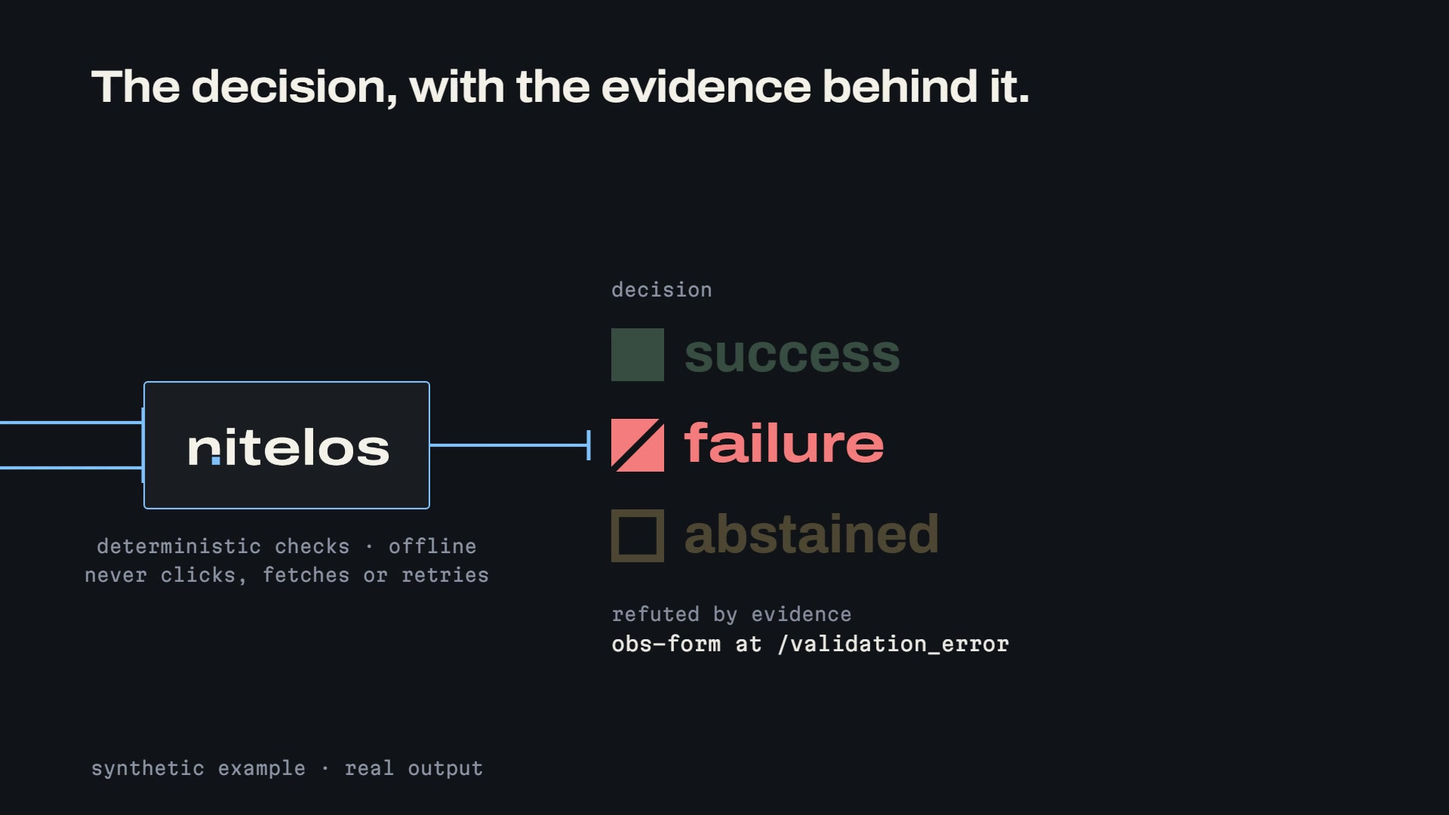
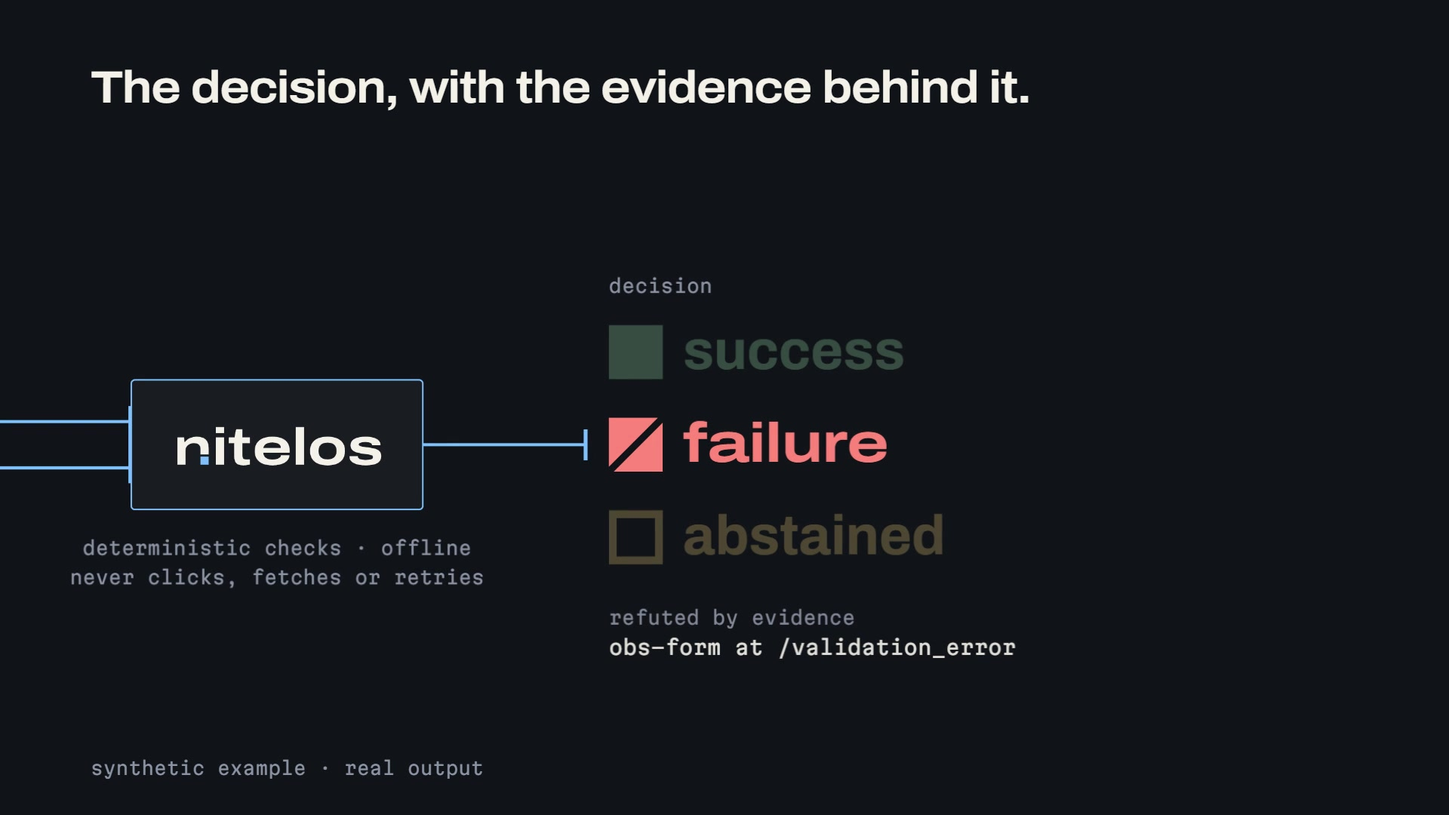
Explainer cut to 28 s; README hero links to the hosted film
- explainer.html tightened from 44 s to 28.5 s: camera moves with speed
  blur, word-by-word headlines, models burst out of the agent, every step
  on the music's beat grid.
- The film is hosted at huggingface.co/datasets/Gjusev/nitelos-launch;
  the README hero is a silent preview GIF of it that links to the full
  film with sound (GitHub strips <video> tags with repository or external
  sources).
- The earlier workflow GIF is removed; records updated.

diff --git a/videos/nitelos-launch/explainer.html b/videos/nitelos-launch/explainer.html
@@ -3,7 +3,7 @@
   <head>
     <meta charset="UTF-8" />
     <meta name="viewport" content="width=1920, height=1080" />
-    <title>nitelos: explainer (44 s)</title>
+    <title>nitelos: explainer (28 s)</title>
     <script src="/assets/vendor/gsap.min.js"></script>
     <style>
       @font-face { font-family: "Archivo"; src: url("/assets/fonts/Archivo-VF.ttf") format("truetype"); font-weight: 100 900; font-stretch: 62% 125%; }
@@ -29,14 +29,15 @@
       .row { position: absolute; left: 4130px; height: 80px; width: 560px; }
       .row svg { position: absolute; left: 0; top: 5px; }
       .row .w { position: absolute; left: 96px; top: 2px; font-family: Archivo; --wdth: 100; font-variation-settings: "wdth" var(--wdth), "wght" 700; font-size: 72px; line-height: 1; white-space: nowrap; }
-      /* HUD: screen-space text above the world */
-      .hl { position: absolute; left: 120px; top: 84px; width: 1680px; font-family: Archivo; font-variation-settings: "wdth" 112, "wght" 650; font-size: 60px; line-height: 1.05; letter-spacing: -0.02em; white-space: nowrap; }
-      .tok { position: absolute; left: 120px; top: 500px; font-family: Archivo; font-variation-settings: "wdth" 112, "wght" 700; font-size: 110px; line-height: 1; letter-spacing: -0.02em; white-space: nowrap; }
+      /* HUD: screen-space text above the world; words rise through a mask */
+      .hl { position: absolute; left: 120px; top: 78px; width: 1680px; height: 80px; overflow: hidden; font-family: Archivo; font-variation-settings: "wdth" 112, "wght" 650; font-size: 60px; line-height: 76px; letter-spacing: -0.02em; white-space: nowrap; }
+      .hl .wd, .tok .wd { display: inline-block; }
+      .tok { position: absolute; left: 120px; top: 488px; width: 1700px; height: 136px; overflow: hidden; font-family: Archivo; font-variation-settings: "wdth" 112, "wght" 700; font-size: 110px; line-height: 132px; letter-spacing: -0.02em; white-space: nowrap; }
     </style>
   </head>
   <body>
-    <div id="root" data-composition-id="explainer" data-start="0" data-width="1920" data-height="1080" data-duration="44">
-      <section id="story" class="clip" data-start="0" data-duration="39.6" data-track-index="1">
+    <div id="root" data-composition-id="explainer" data-start="0" data-width="1920" data-height="1080" data-duration="28.5">
+      <section id="story" class="clip" data-start="0" data-duration="24.3" data-track-index="1">
         <!-- intentional: the world is larger than the frame; the camera decides what is on screen -->
         <div id="world-fade" data-layout-allow-overflow>
           <div id="world" data-layout-allow-overflow>
@@ -102,25 +103,25 @@
           </div>
         </div>
 
-        <!-- HUD -->
-        <div id="h1" class="hl" data-layout-allow-overlap>Your agent says it's done.</div>
-        <div id="h2" class="hl" data-layout-allow-overlap>It can run on any model.</div>
-        <div id="h3" class="hl" data-layout-allow-overlap>nitelos never calls the model.</div>
-        <div id="h4" class="hl" data-layout-allow-overlap>It reads the evidence the run left behind.</div>
-        <div id="h5" class="hl" data-layout-allow-overlap>You write down what done means.</div>
-        <div id="h6" class="hl" data-layout-allow-overlap>nitelos checks one against the other.</div>
-        <div id="h7" class="hl" data-layout-allow-overlap>The decision, with the evidence behind it.</div>
-        <div id="h8" class="hl" data-layout-allow-overlap>The summary was never the proof.</div>
+        <!-- HUD (words are wrapped in .wd spans at setup) -->
+        <div id="h1" class="hl" data-layout-allow-overlap data-layout-allow-overflow>Your agent says it's done.</div>
+        <div id="h2" class="hl" data-layout-allow-overlap data-layout-allow-overflow>It can run on any model.</div>
+        <div id="h3" class="hl" data-layout-allow-overlap data-layout-allow-overflow>nitelos never calls the model.</div>
+        <div id="h4" class="hl" data-layout-allow-overlap data-layout-allow-overflow>It reads the evidence the run left behind.</div>
+        <div id="h5" class="hl" data-layout-allow-overlap data-layout-allow-overflow>You write down what done means.</div>
+        <div id="h6" class="hl" data-layout-allow-overlap data-layout-allow-overflow>nitelos checks one against the other.</div>
+        <div id="h7" class="hl" data-layout-allow-overlap data-layout-allow-overflow>The decision, with the evidence behind it.</div>
+        <div id="h8" class="hl" data-layout-allow-overlap data-layout-allow-overflow>The summary was never the proof.</div>
         <div id="built" class="abs" style="left: 120px; top: 410px; font-family: Archivo; font-variation-settings: 'wdth' 112, 'wght' 500; font-size: 56px; line-height: 1; color: var(--muted)">Built for</div>
-        <div id="k1" class="tok" data-layout-allow-overlap>agent developers</div>
-        <div id="k2" class="tok" data-layout-allow-overlap>evaluation engineers</div>
-        <div id="k3" class="tok" data-layout-allow-overlap>computer-use research</div>
-        <div id="k4" class="tok" data-layout-allow-overlap>reliability teams</div>
+        <div id="k1" class="tok" data-layout-allow-overlap data-layout-allow-overflow>agent developers</div>
+        <div id="k2" class="tok" data-layout-allow-overlap data-layout-allow-overflow>evaluation engineers</div>
+        <div id="k3" class="tok" data-layout-allow-overlap data-layout-allow-overflow>computer-use research</div>
+        <div id="k4" class="tok" data-layout-allow-overlap data-layout-allow-overflow>reliability teams</div>
         <div id="footnote" class="label abs" style="left: 120px; top: 968px; font-size: 20px">model names are examples · nitelos ships no integration with them</div>
         <div id="honesty" class="label abs" style="left: 120px; top: 1006px">synthetic example · real output</div>
       </section>
 
-      <section id="close" class="clip" data-start="39.2" data-duration="4.8" data-track-index="2">
+      <section id="close" class="clip" data-start="24" data-duration="4.5" data-track-index="2">
         <div id="cover" class="abs" style="left: 0; top: 0; width: 1920px; height: 1080px; background: var(--ground)"></div>
         <img id="wordmark" src="/assets/svg/nitelos-wordmark-dark-open.svg" alt="nitelos" class="abs" style="left: 410px; top: 330px; width: 1100px" />
         <svg class="abs" width="1920" height="1080" viewBox="0 0 1920 1080" style="left: 0; top: 0"><path id="drop-line" d="M583.35 150 V497.8" fill="none" stroke="#79bfff" stroke-width="4" /></svg>
@@ -129,25 +130,32 @@
         <div id="install" class="mono abs" style="left: 0; width: 1920px; top: 720px; text-align: center; font-size: 34px">pip install nitelos</div>
       </section>
 
-      <audio id="music" src="/assets/audio/happy-beats-business-moves-vol-12-by-ende-dot-app.mp3" data-start="0" data-duration="44" data-track-index="10" data-volume="0.85"
-        data-automation='{"version":1,"lanes":[{"target":"volume","points":[{"t":0,"v":0},{"t":0.3,"v":0.85},{"t":42.8,"v":0.85},{"t":44,"v":0}]}]}'></audio>
-      <audio id="sfx-claim" src="/assets/audio/sfx/impactSoft_medium_002.ogg" data-start="0.56" data-track-index="11" data-volume="0.5"></audio>
-      <audio id="sfx-chips" src="/assets/audio/sfx/click_003.ogg" data-start="5.47" data-track-index="12" data-volume="0.35"></audio>
-      <audio id="sfx-pan" src="/assets/audio/sfx/card-slide-1.ogg" data-start="10.92" data-track-index="13" data-volume="0.35"></audio>
-      <audio id="sfx-crit" src="/assets/audio/sfx/click2.ogg" data-start="16.93" data-track-index="14" data-volume="0.45"></audio>
-      <audio id="sfx-node" src="/assets/audio/sfx/click_003.ogg" data-start="23.1" data-track-index="15" data-volume="0.45"></audio>
-      <audio id="sfx-stop" src="/assets/audio/sfx/click2.ogg" data-start="24.02" data-track-index="16" data-volume="0.4"></audio>
-      <audio id="sfx-verdict" src="/assets/audio/sfx/impactSoft_heavy_003.ogg" data-start="28.93" data-track-index="17" data-volume="0.55"></audio>
-      <audio id="sfx-strike" src="/assets/audio/sfx/impactSoft_medium_004.ogg" data-start="32.2" data-track-index="18" data-volume="0.4"></audio>
-      <audio id="sfx-dock" src="/assets/audio/sfx/impactBell_heavy_000.ogg" data-start="40.39" data-track-index="19" data-volume="0.55"></audio>
+      <audio id="music" src="/assets/audio/happy-beats-business-moves-vol-12-by-ende-dot-app.mp3" data-start="0" data-duration="28.5" data-track-index="10" data-volume="0.85"
+        data-automation='{"version":1,"lanes":[{"target":"volume","points":[{"t":0,"v":0},{"t":0.2,"v":0.85},{"t":27.4,"v":0.85},{"t":28.5,"v":0}]}]}'></audio>
+      <audio id="sfx-claim" src="/assets/audio/sfx/impactSoft_medium_002.ogg" data-start="0.28" data-track-index="11" data-volume="0.5"></audio>
+      <audio id="sfx-chips" src="/assets/audio/sfx/click_003.ogg" data-start="3.28" data-track-index="12" data-volume="0.4"></audio>
+      <audio id="sfx-pan" src="/assets/audio/sfx/card-slide-1.ogg" data-start="6.56" data-track-index="13" data-volume="0.35"></audio>
+      <audio id="sfx-crit" src="/assets/audio/sfx/click2.ogg" data-start="10.38" data-track-index="14" data-volume="0.45"></audio>
+      <audio id="sfx-node" src="/assets/audio/sfx/click_003.ogg" data-start="13.11" data-track-index="15" data-volume="0.45"></audio>
+      <audio id="sfx-stop" src="/assets/audio/sfx/click2.ogg" data-start="13.93" data-track-index="16" data-volume="0.4"></audio>
+      <audio id="sfx-verdict" src="/assets/audio/sfx/impactSoft_heavy_003.ogg" data-start="16.93" data-track-index="17" data-volume="0.55"></audio>
+      <audio id="sfx-strike" src="/assets/audio/sfx/impactSoft_medium_004.ogg" data-start="19.11" data-track-index="18" data-volume="0.4"></audio>
+      <audio id="sfx-dock" src="/assets/audio/sfx/impactBell_heavy_000.ogg" data-start="25.11" data-track-index="19" data-volume="0.55"></audio>
     </div>
     <script>
       const tl = gsap.timeline({ paused: true });
       const ARRIVE = "expo.out";
-      const MOVE = "power3.inOut";
+      const MOVE = "expo.inOut"; // fast camera: quick through the middle, settled at both ends
       // beat grid of vol-12 (109.96 BPM): 0.01 + k * 0.5457 s
 
-      // ---- build the model ring (deterministic layout, world coordinates) ----
+      // ---- split HUD lines into words (deterministic, at setup) ----
+      const words = (id) => {
+        const el = document.getElementById(id);
+        el.innerHTML = el.textContent.split(" ").map((w) => '<span class="wd">' + w + "</span>").join(" ");
+        return Array.from(el.querySelectorAll(".wd"));
+      };
+
+      // ---- build the model ring (world coordinates) ----
       const MODELS = ["Claude", "GPT", "Gemini", "Llama", "Mistral", "Qwen", "DeepSeek", "your own model"];
       const HUB = { x: 1000, y: 1100 };
       const wires = document.getElementById("wires");
@@ -165,9 +173,9 @@
         c.style.top = cy - 32 + "px";
         c.textContent = name;
         chipsEl.appendChild(c);
-        chips.push(c);
+        chips.push({ el: c, dx: HUB.x - cx, dy: HUB.y - cy });
         const p = document.createElementNS("http://www.w3.org/2000/svg", "path");
-        p.setAttribute("d", "M" + cx + " " + cy + " L" + HUB.x + " " + HUB.y);
+        p.setAttribute("d", "M" + HUB.x + " " + HUB.y + " L" + cx + " " + cy); // drawn hub -> model
         p.setAttribute("stroke", "#59616f");
         p.setAttribute("stroke-width", "3");
         p.setAttribute("fill", "none");
@@ -179,33 +187,44 @@
       const world = document.getElementById("world");
       const at = (wx, wy, s) => ({ x: 960 - s * wx, y: 620 - s * wy, s: s });
       const K = {
-        claim: at(1000, 630, 1.6), claimPush: at(1000, 630, 1.68),
-        ring: at(1000, 1010, 0.8), ringDrift: at(1000, 1010, 0.83), // lowest chip stays above the footnote
-        evidence: at(2690, 1116, 1), criteria: at(2900, 1398, 0.8), // evidence stays under the headline
-        node: at(3200, 1320, 0.8), decision: at(4280, 1430, 1),
-        map: at(2500, 1170, 0.41), mapDrift: at(2500, 1170, 0.43),
+        claim: at(1000, 630, 1.6), claimPush: at(1000, 630, 1.72),
+        ring: at(1000, 1010, 0.8), ringPush: at(1000, 1010, 0.83), // lowest chip stays above the footnote
+        evidence: at(2690, 1116, 1), evidencePush: at(2690, 1116, 1.03),
+        criteria: at(2900, 1398, 0.8), criteriaPush: at(2900, 1398, 0.82),
+        node: at(3200, 1320, 0.8), nodePush: at(3200, 1320, 0.82),
+        decision: at(4280, 1430, 1), decisionPush: at(4280, 1430, 1.03),
+        map: at(2500, 1170, 0.41), mapDrift: at(2500, 1170, 0.44),
       };
       const cam = { ...K.claim };
       const apply = () => { world.style.transform = "translate(" + cam.x + "px," + cam.y + "px) scale(" + cam.s + ")"; };
       apply();
       const leg = (t, d, a, b, ease) => tl.fromTo(cam, { ...a }, { ...b, duration: d, ease: ease, immediateRender: false, onUpdate: apply }, t);
+      // speed blur rides each fast move (in, then out), on the wrapper, never on the camera node
+      gsap.set("#world-fade", { filter: "blur(0px)" });
+      const move = (t, d, a, b) => {
+        leg(t, d, a, b, MOVE);
+        tl.to("#world-fade", { filter: "blur(3px)", duration: d / 2, ease: "sine.in" }, t);
+        tl.to("#world-fade", { filter: "blur(0px)", duration: d / 2, ease: "sine.out" }, t + d / 2);
+      };
       leg(0, 0.01, K.claim, K.claim, "none");
-      leg(0.6, 3.7, K.claim, K.claimPush, "none"); // slow push on the hook
-      leg(4.38, 1.4, K.claimPush, K.ring, MOVE); // pull back: the agent and its models
-      leg(5.8, 5.1, K.ring, K.ringDrift, "none");
-      leg(10.92, 1.4, K.ringDrift, K.evidence, MOVE); // follow the trace to the evidence
-      leg(16.38, 1.0, K.evidence, K.criteria, "power2.inOut");
-      leg(21.84, 1.25, K.criteria, K.node, MOVE);
-      leg(27.84, 1.1, K.node, K.decision, MOVE);
-      leg(30.6, 1.7, K.decision, K.map, "power2.inOut"); // the whole loop
-      leg(34.94, 4.3, K.map, K.mapDrift, "sine.inOut");
+      leg(0.3, 2.44, K.claim, K.claimPush, "none"); // push on the hook
+      move(2.74, 0.75, K.claimPush, K.ring);
+      leg(3.49, 3.07, K.ring, K.ringPush, "none");
+      move(6.56, 0.9, K.ringPush, K.evidence); // the camera rides the trace
+      leg(7.46, 2.37, K.evidence, K.evidencePush, "none");
+      move(9.83, 0.6, K.evidencePush, K.criteria);
+      leg(10.43, 2.13, K.criteria, K.criteriaPush, "none");
+      move(12.56, 0.6, K.criteriaPush, K.node);
+      leg(13.16, 2.68, K.node, K.nodePush, "none");
+      move(15.84, 0.6, K.nodePush, K.decision);
+      leg(16.44, 1.56, K.decision, K.decisionPush, "none");
+      leg(18.0, 1.1, K.decisionPush, K.map, MOVE); // pull out to the whole loop
+      leg(19.1, 5.0, K.map, K.mapDrift, "none");
 
       // ---- initial states (outside the timeline) ----
       const hidden = ["#claim", "#hub", "#ev1", "#ev2", "#ev3", "#ev4", "#crit", "#node", "#node-notes", "#dec-label", "#r-ok", "#r-fail", "#r-abs", "#why", "#footnote", "#built"];
       gsap.set(hidden, { opacity: 0 });
-      gsap.set(chips, { opacity: 0, scale: 0.85, transformOrigin: "50% 50%" });
-      gsap.set(["#h1", "#h2", "#h3", "#h4", "#h5", "#h6", "#h7", "#h8"], { opacity: 0, y: 26 });
-      gsap.set(["#k1", "#k2", "#k3", "#k4"], { opacity: 0, y: 50 });
+      chips.forEach((c) => gsap.set(c.el, { opacity: 0, x: c.dx, y: c.dy, scale: 0.4, transformOrigin: "50% 50%" }));
       gsap.set("#strike", { scaleX: 0 });
       gsap.set(["#stop-n", "#stop-d"], { opacity: 0 });
       gsap.set("#w-fail", { "--wdth": 62 });
@@ -213,70 +232,73 @@
       spokes.forEach(draw);
       ["#t-ev", "#t-up", "#t-down", "#t-b1", "#t-b2", "#t-b3", "#t-b4", "#t-n1", "#t-n2", "#t-d", "#drop-line"].forEach((s) => draw(document.querySelector(s)));
 
-      // ---- HUD headlines: the old one leaves (faster) before the new one arrives ----
-      const HL = [["#h1", 0.2], ["#h2", 4.6], ["#h3", 7.8], ["#h4", 11.1], ["#h5", 16.6], ["#h6", 22.0], ["#h7", 28.1], ["#h8", 32.3]];
-      HL.forEach(([h, t], i) => {
-        tl.to(h, { opacity: 1, y: 0, duration: 0.55, ease: ARRIVE }, t);
-        const end = i < HL.length - 1 ? HL[i + 1][1] - 0.22 : 34.94;
-        tl.to(h, { opacity: 0, y: -18, duration: 0.2, ease: "power2.in" }, end);
+      // ---- HUD headlines: words rise through the mask, leave upward faster ----
+      const HL = [["h1", 0.1], ["h2", 2.8], ["h3", 4.92], ["h4", 6.62], ["h5", 9.9], ["h6", 12.62], ["h7", 15.9], ["h8", 18.1]];
+      HL.forEach(([id, t], i) => {
+        const w = words(id);
+        gsap.set(w, { yPercent: 110 });
+        tl.to(w, { yPercent: 0, duration: 0.5, ease: ARRIVE, stagger: 0.035 }, t);
+        const end = i < HL.length - 1 ? HL[i + 1][1] - 0.2 : 21.25;
+        tl.to(w, { yPercent: -110, duration: 0.18, ease: "power2.in", stagger: 0.012 }, end);
       });
 
-      // ---- 1: the claim (condensed, unverified voice) ----
-      tl.fromTo("#claim", { opacity: 0, scale: 1.08 }, { opacity: 1, scale: 1, duration: 0.35, ease: ARRIVE, immediateRender: false }, 0.56);
+      // ---- 1: the claim slams in (condensed, unverified voice) ----
+      tl.fromTo("#claim", { opacity: 0, scale: 1.25 }, { opacity: 1, scale: 1, duration: 0.28, ease: "expo.out", immediateRender: false }, 0.28);
 
-      // ---- 2: the agent and the models it can run on ----
-      tl.to("#hub", { opacity: 1, duration: 0.4, ease: "power1.out" }, 4.9);
-      chips.forEach((c, i) => tl.to(c, { opacity: 1, scale: 1, duration: 0.5, ease: ARRIVE }, 5.47 + i * 0.055));
-      spokes.forEach((p, i) => tl.to(p, { strokeDashoffset: 0, duration: 0.3, ease: "none" }, 5.9 + i * 0.05));
-      tl.to("#footnote", { opacity: 1, duration: 0.4 }, 7.8);
-      tl.to("#footnote", { opacity: 0, duration: 0.2 }, 10.9);
+      // ---- 2: the agent, and the models burst out of it ----
+      tl.fromTo("#hub", { opacity: 0, scale: 0.9 }, { opacity: 1, scale: 1, duration: 0.35, ease: ARRIVE, transformOrigin: "50% 50%", immediateRender: false }, 2.95);
+      chips.forEach((c, i) => tl.to(c.el, { opacity: 1, x: 0, y: 0, scale: 1, duration: 0.6, ease: ARRIVE }, 3.28 + i * 0.03));
+      spokes.forEach((p, i) => tl.to(p, { strokeDashoffset: 0, duration: 0.25, ease: "none" }, 3.55 + i * 0.03));
+      tl.to("#footnote", { opacity: 1, duration: 0.3 }, 4.92);
+      tl.to("#footnote", { opacity: 0, duration: 0.2 }, 6.5);
 
-      // ---- 3: the trace leaves the agent, the camera follows it to the evidence ----
-      tl.to("#t-ev", { strokeDashoffset: 0, duration: 1.0, ease: "none" }, 11.0);
-      tl.to(["#t-up", "#t-down"], { strokeDashoffset: 0, duration: 0.18, ease: "none" }, 12.0); // the trace splits at the junction
-      ["#t-b1", "#t-b2", "#t-b3", "#t-b4"].forEach((s, i) => tl.to(s, { strokeDashoffset: 0, duration: 0.12, ease: "none" }, 12.2 + i * 0.05));
-      ["#ev1", "#ev2", "#ev3", "#ev4"].forEach((s, i) => tl.fromTo(s, { opacity: 0, x: -36 }, { opacity: 1, x: 0, duration: 0.45, ease: ARRIVE, immediateRender: false }, 12.1 + i * 0.08));
+      // ---- 3: the trace leaves the agent; the camera follows it to the evidence ----
+      tl.to("#t-ev", { strokeDashoffset: 0, duration: 0.85, ease: "none" }, 6.56);
+      tl.to(["#t-up", "#t-down"], { strokeDashoffset: 0, duration: 0.14, ease: "none" }, 7.41); // splits at the junction
+      ["#t-b1", "#t-b2", "#t-b3", "#t-b4"].forEach((s, i) => tl.to(s, { strokeDashoffset: 0, duration: 0.1, ease: "none" }, 7.55 + i * 0.04));
+      ["#ev1", "#ev2", "#ev3", "#ev4"].forEach((s, i) => tl.fromTo(s, { opacity: 0, x: 90 }, { opacity: 1, x: 0, duration: 0.45, ease: ARRIVE, immediateRender: false }, 7.6 + i * 0.06));
 
       // ---- 4: the criterion ----
-      tl.fromTo("#crit", { opacity: 0, y: 44 }, { opacity: 1, y: 0, duration: 0.6, ease: ARRIVE, immediateRender: false }, 16.93);
+      tl.fromTo("#crit", { opacity: 0, y: 70 }, { opacity: 1, y: 0, duration: 0.5, ease: ARRIVE, immediateRender: false }, 10.38);
 
       // ---- 5: nitelos reads both: trace, then stop ----
-      tl.fromTo("#node", { opacity: 0, scale: 0.92 }, { opacity: 1, scale: 1, duration: 0.5, ease: ARRIVE, transformOrigin: "50% 50%", immediateRender: false }, 23.1);
-      tl.to(["#t-n1", "#t-n2"], { strokeDashoffset: 0, duration: 0.6, ease: "none" }, 23.42);
-      tl.to("#stop-n", { opacity: 1, duration: 0.04 }, 24.02);
-      tl.to("#node-notes", { opacity: 1, duration: 0.6, ease: "power1.out" }, 24.5);
+      tl.fromTo("#node", { opacity: 0, scale: 0.85 }, { opacity: 1, scale: 1, duration: 0.4, ease: ARRIVE, transformOrigin: "50% 50%", immediateRender: false }, 13.11);
+      tl.to(["#t-n1", "#t-n2"], { strokeDashoffset: 0, duration: 0.45, ease: "none" }, 13.48);
+      tl.to("#stop-n", { opacity: 1, duration: 0.03 }, 13.93);
+      tl.to("#node-notes", { opacity: 1, duration: 0.4, ease: "power1.out" }, 14.1);
 
       // ---- 6: the decision: three possible answers, failure lands on the beat ----
-      tl.to("#t-d", { strokeDashoffset: 0, duration: 0.35, ease: "none" }, 28.3);
-      tl.to("#stop-d", { opacity: 1, duration: 0.04 }, 28.65);
-      tl.to("#dec-label", { opacity: 1, duration: 0.3 }, 28.4);
-      tl.to(["#r-ok", "#r-abs"], { opacity: 0.28, duration: 0.3, stagger: 0.08 }, 28.45);
-      tl.to("#r-fail", { opacity: 1, duration: 0.2 }, 28.93);
-      tl.to("#w-fail", { "--wdth": 125, duration: 0.7, ease: ARRIVE }, 28.93);
-      tl.to("#why", { opacity: 1, duration: 0.5, ease: "power1.out" }, 29.6);
-      // the camera pulls out to the whole loop; the claim is struck where it started
-      tl.to("#strike", { scaleX: 1, duration: 0.45, ease: ARRIVE }, 32.2);
+      tl.to("#t-d", { strokeDashoffset: 0, duration: 0.25, ease: "none" }, 16.3);
+      tl.to("#stop-d", { opacity: 1, duration: 0.03 }, 16.55);
+      tl.to("#dec-label", { opacity: 1, duration: 0.2 }, 16.4);
+      tl.fromTo(["#r-ok", "#r-abs"], { opacity: 0, x: -40 }, { opacity: 0.28, x: 0, duration: 0.3, ease: ARRIVE, stagger: 0.06, immediateRender: false }, 16.45);
+      tl.fromTo("#r-fail", { opacity: 0, scale: 1.15 }, { opacity: 1, scale: 1, duration: 0.3, ease: "expo.out", transformOrigin: "0% 50%", immediateRender: false }, 16.93);
+      tl.to("#w-fail", { "--wdth": 125, duration: 0.6, ease: ARRIVE }, 16.93);
+      tl.to("#why", { opacity: 1, duration: 0.35, ease: "power1.out" }, 17.35);
+      tl.to("#strike", { scaleX: 1, duration: 0.35, ease: ARRIVE }, 19.11); // struck where the run started
 
       // ---- 7: who it is for (fixed anchor, the token swaps in place) ----
-      tl.to("#world-fade", { opacity: 0.12, duration: 0.6, ease: "power2.out" }, 34.94);
-      tl.to("#honesty", { opacity: 0, duration: 0.3 }, 34.94);
-      tl.to("#built", { opacity: 1, duration: 0.4, ease: "power1.out" }, 35.05);
-      const TOK = [["#k1", 35.2], ["#k2", 36.2], ["#k3", 37.2], ["#k4", 38.2]];
-      TOK.forEach(([k, t], i) => {
-        tl.to(k, { opacity: 1, y: 0, duration: 0.4, ease: ARRIVE }, t);
-        if (i < TOK.length - 1) tl.to(k, { opacity: 0, y: -50, duration: 0.18, ease: "power2.in" }, TOK[i + 1][1] - 0.2);
+      tl.to("#world-fade", { opacity: 0.1, duration: 0.4, ease: "power2.out" }, 21.25);
+      tl.to("#honesty", { opacity: 0, duration: 0.2 }, 21.25);
+      tl.fromTo("#built", { opacity: 0, x: -30 }, { opacity: 1, x: 0, duration: 0.35, ease: ARRIVE, immediateRender: false }, 21.3);
+      const TOK = [["k1", 21.4], ["k2", 22.05], ["k3", 22.7], ["k4", 23.35]];
+      TOK.forEach(([id, t], i) => {
+        const w = words(id);
+        gsap.set(w, { yPercent: 110 });
+        tl.to(w, { yPercent: 0, duration: 0.35, ease: ARRIVE, stagger: 0.03 }, t);
+        if (i < TOK.length - 1) tl.to(w, { yPercent: -110, duration: 0.14, ease: "power2.in", stagger: 0.01 }, TOK[i + 1][1] - 0.15);
       });
 
       // ---- 8: close: the evidence square completes the n ----
-      tl.fromTo("#cover", { opacity: 0 }, { opacity: 1, duration: 0.3 }, 39.2);
-      tl.fromTo("#wordmark", { opacity: 0, clipPath: "inset(100% 0 0 0)" }, { opacity: 1, clipPath: "inset(0% 0 0 0)", duration: 0.5, ease: ARRIVE }, 39.5);
-      tl.to("#drop-line", { strokeDashoffset: 0, duration: 0.35, ease: "none" }, 40.04);
-      tl.fromTo("#dock-square", { opacity: 0 }, { opacity: 1, duration: 0.08 }, 40.04);
-      tl.fromTo("#dock-square", { y: -347.8 }, { y: 0, duration: 0.35, ease: "none" }, 40.04); // stops dead at 40.39
-      tl.to("#drop-line", { opacity: 0, duration: 0.3 }, 40.55);
-      tl.fromTo("#tagline", { opacity: 0, y: 24 }, { opacity: 1, y: 0, duration: 0.5, ease: ARRIVE }, 40.8);
-      tl.fromTo("#install", { opacity: 0 }, { opacity: 1, duration: 0.4 }, 41.3);
-      tl.set({}, {}, 44);
+      tl.fromTo("#cover", { opacity: 0 }, { opacity: 1, duration: 0.25 }, 24.0);
+      tl.fromTo("#wordmark", { opacity: 0, clipPath: "inset(100% 0 0 0)" }, { opacity: 1, clipPath: "inset(0% 0 0 0)", duration: 0.45, ease: ARRIVE }, 24.2);
+      tl.to("#drop-line", { strokeDashoffset: 0, duration: 0.35, ease: "none" }, 24.76);
+      tl.fromTo("#dock-square", { opacity: 0 }, { opacity: 1, duration: 0.08 }, 24.76);
+      tl.fromTo("#dock-square", { y: -347.8 }, { y: 0, duration: 0.35, ease: "none" }, 24.76); // stops dead at 25.11
+      tl.to("#drop-line", { opacity: 0, duration: 0.3 }, 25.25);
+      tl.fromTo("#tagline", { opacity: 0, y: 24 }, { opacity: 1, y: 0, duration: 0.45, ease: ARRIVE }, 25.4);
+      tl.fromTo("#install", { opacity: 0 }, { opacity: 1, duration: 0.35 }, 25.8);
+      tl.set({}, {}, 28.5);
       window.__timelines["explainer"] = tl;
     </script>
   </body>

diff --git a/README.md b/README.md
@@ -13,7 +13,10 @@
 small Python SDK: you describe what "done" means, hand it the evidence the agent
 left behind, and it answers `success`, `failure` or `abstained`.
 
-<p align="center"><img src="docs/assets/nitelos-workflow.gif" width="760" alt="The workflow in five steps. 1: the agent says registration succeeded. 2: the criterion, no validation error remains on the form. 3: the evidence, the final form with validation_error true. 4: nitelos checks the criterion against the evidence. 5: the decision is failure, refuted by evidence obs-form at /validation_error, and the agent's claim is struck through. Synthetic example, real output."></p>
+<p align="center">
+  <a href="https://huggingface.co/datasets/Gjusev/nitelos-launch/resolve/main/nitelos-explainer-28s.mp4"><img src="docs/assets/nitelos-film-preview.gif" width="800" alt="The nitelos film. The agent says registration succeeded. It can run on any model, and nitelos never calls the model. nitelos reads the evidence the run left behind, checks it against the criterion you wrote, and decides failure, refuted by evidence obs-form at /validation_error. The agent's claim is struck through. Synthetic example, real output."></a>
+  <br><sub><a href="https://huggingface.co/datasets/Gjusev/nitelos-launch/resolve/main/nitelos-explainer-28s.mp4">▶ Watch the 28-second film with sound</a></sub>
+</p>
 
 ## How it works
 

diff --git a/videos/nitelos-launch/proofs/qa.md b/videos/nitelos-launch/proofs/qa.md
@@ -12,7 +12,7 @@ the raw renders. Full numbers per file: `../manifest.json`.
 | Demo 60 s, 1920×1080 | pass, 0 errors | all pass | 1800 / 60.01 s | −16.06 LUFS, −1.81 dBTP |
 | Vertical 30 s, 1080×1920 | pass, 0 errors | all pass | 900 / 30.016 s | −16.07 LUFS, −1.52 dBTP |
 | Teaser 8 s, 1080×1920 | pass, 0 errors | 25/25 pass | 240 / 8.0 s | −16.14 LUFS, −1.33 dBTP |
-| Explainer 44 s, 1920×1080 (LinkedIn) | pass, 0 errors (footnote/chip overlap and headline/evidence collision fixed by reframing; a junction trace that drew out of order was split into two paths) | pass | 1320 / 44.01 s | −16.06 LUFS, −1.32 dBTP |
+| Explainer 28 s, 1920×1080 (LinkedIn, README player) | pass, 0 errors (footnote/chip overlap and headline/evidence collision fixed by reframing; a junction trace that drew out of order was split into two paths; a first 44 s cut was tightened to 28 s on feedback) | pass | 855 / 28.501 s | −16.05 LUFS, −2.35 dBTP |
 | Workflow 24 s, 1920×1080 (README GIF) | pass, 0 errors (an overflowing evidence label was shortened) | pass | 708 / 23.616 s | −16.06 LUFS, −1.22 dBTP |
 | Loop 6 s, 1600×900, MP4 + WebM | pass, 0 errors, 0 warnings | n/a (no text pairs flagged) | 180 / 6.0 s, no audio | n/a |
 | Stills: social card, 3 state cards, poster | pass, 0 errors | pass | PNG at exact size | n/a |

diff --git a/docs/documentation-audit.md b/docs/documentation-audit.md
@@ -25,7 +25,12 @@ How the fixes were checked: [documentation-validation.md](documentation-validati
 ## Visual assets added for the docs
 
 - `docs/assets/brand/`: wordmark, mark and tile, dark and light.
-- `docs/assets/nitelos-workflow.gif`: the README hero. It is the five-step workflow film
+- `docs/assets/nitelos-film-preview.gif`: the current README hero, a silent preview of the
+  28 s explainer (`videos/nitelos-launch/explainer.html`, 0 to 21 s, 800 px, 10 fps, 96
+  colours, 3.5 MB) linking to the full film with sound, hosted on Hugging Face
+  (`datasets/Gjusev/nitelos-launch`). GitHub strips `<video>` tags pointing at repository
+  or external files, so an inline player would need a web-uploaded attachment.
+- Earlier hero, removed: `docs/assets/nitelos-workflow.gif`, the five-step workflow film
   (`videos/nitelos-launch/workflow.html`) up to the settled diagram, at 960 px, 12 fps,
   96 colours (680 KB). It is a GIF because GitHub does not play repository MP4s inline.
   A first README pass used the 6 s loop instead; feedback was that it did not explain

diff --git a/videos/nitelos-launch/README.md b/videos/nitelos-launch/README.md
@@ -13,7 +13,7 @@ shown is real ([evidence/](evidence/commands.md)).
 | [proofs/qa.md](proofs/qa.md) | QA gates, seam test, problems found and fixed |
 | [assets/licenses.md](assets/licenses.md) | Fonts, GSAP, music, SFX: licenses and obligations |
 
-Compositions: `explainer.html` (44 s: any model, the evidence, the criteria, the
+Compositions: `explainer.html` (28 s: any model, the evidence, the criteria, the
 decision, who it is for; one virtual camera over one world), `workflow.html` (how it
 works in five steps, 24 s; source of the README GIF), `index.html` (main, 30 s), `demo.html` (60 s), `vertical.html` (30 s),
 `teaser.html` (8 s vertical), `loop.html` (6 s, silent), `kit-card.html`, `poster.html`,
